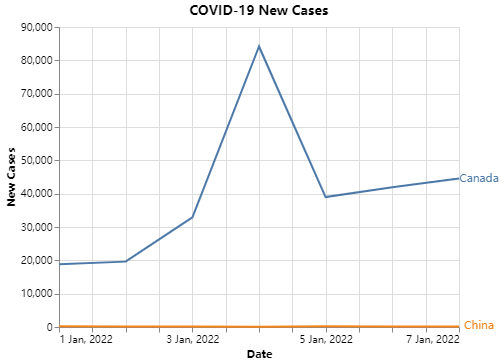
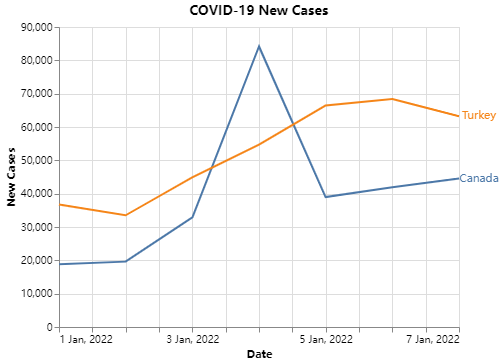
Fix: Changed the country example

diff --git a/src/covizpy/plot_spec.py b/src/covizpy/plot_spec.py
@@ -44,7 +44,7 @@ def plot_spec(
     
     Examples
     --------
-    >>> plot_spec(df, location=["Canada", "China"], val="new_deaths", date_from="2022-01-01", date_to="2022-01-07")
+    >>> plot_spec(df, location=["Canada", "Turkey"], val="new_cases", date_from="2022-01-01", date_to="2022-01-07")
     
     """
     # init dates if None

diff --git a/README.md b/README.md
@@ -63,7 +63,7 @@ plot_summary(df, var="location", val="new_cases", fun="sum", date_from="2022-01-
 ### Plot COVID-19 cases for specific countries (line chart)
 
 ```python
-plot_spec(df, location=["Canada", "China"], val="new_cases", date_from="2022-01-01", date_to="2022-01-07")
+plot_spec(df, location=["Canada", "Turkey"], val="new_cases", date_from="2022-01-01", date_to="2022-01-07")
 ```
 
 ![New COVID-19 specific graph](https://github.com/UBC-MDS/covizpy/raw/main/img/plot_spec.png)
